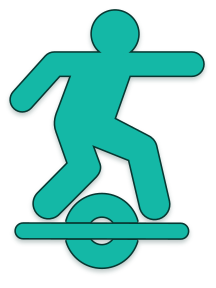
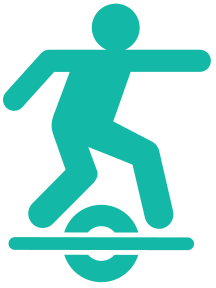
app: Remove strokes from app and loading artwork

Changed region(s): [[0.0, 0.0, 1.0, 1.0]]

diff --git a/frontend/src/app.html b/frontend/src/app.html
@@ -100,15 +100,7 @@
   <body data-sveltekit-preload-data="hover">
     <div id="app-loading" role="status" aria-label="Loading Float View">
       <!-- prettier-ignore -->
-      <span id="loading-symbol" aria-hidden="true"><svg xmlns="http://www.w3.org/2000/svg" viewBox="10 -3 83 110" width="72" height="96" aria-hidden="true" class="loading-symbol-light"><defs id="defs4"><filter id="rider-shadow" x="-20%" y="-20%" width="140%" height="145%" color-interpolation-filters="sRGB"><feGaussianBlur in="SourceAlpha" stdDeviation="0.9" result="blur" /><feOffset in="blur" dx="0" dy="1.1" result="offset" /><feFlood flood-color="#052e2b" flood-opacity="0.26" result="tint" /><feComposite in="tint" in2="offset" operator="in" result="drop" /><feMerge><feMergeNode in="drop" /><feMergeNode in="SourceGraphic" /></feMerge></filter></defs><g filter="url(#rider-shadow)"><g fill="#073832" stroke="#073832" stroke-width="2.2" stroke-linejoin="round"><path d="M 83.702,17.438 H 57.451 C 61.573,15.723 63.644,11.053 62.098,6.815 60.509,2.458 55.7,0.199 51.343,1.787 c -4.38,1.597 -6.607,6.422 -5.018,10.779 0.836,2.294 2.569,3.997 4.657,4.871 H 30.87 c -1.103,0 -2.154,0.468 -2.891,1.288 L 15.682,32.389 c -1.437,1.597 -1.307,4.056 0.289,5.493 0.743,0.669 1.673,0.999 2.601,0.999 1.064,0 2.124,-0.435 2.892,-1.288 L 32.602,25.217 h 5.484 l -4.939,13.265 c -0.911,2.277 -2.201,5.124 -0.835,8.729 l 4.333,12.314 -11.665,11.8 c -1.268,1.309 -1.816,3.256 -1.214,5.115 0.844,2.669 3.686,4.124 6.354,3.278 0.833,-0.253 1.56,-0.723 2.115,-1.31 L 46.469,64.08 c 0.833,-0.892 1.744,-2.486 1.236,-4.071 l -3.114,-8.466 15.511,6.205 4.349,18.618 c 0.041,0.112 0.06,0.234 0.102,0.348 0.845,2.669 3.694,4.146 6.363,3.301 2.503,-0.81 3.958,-3.369 3.414,-5.918 L 69.426,52.832 c -0.033,-0.091 -0.044,-0.189 -0.077,-0.28 -0.476,-1.445 -1.512,-2.529 -2.794,-3.089 L 53.337,42.577 59.449,25.213 H 83.7 c 2.148,0 3.89,-1.741 3.89,-3.89 0,-2.149 -1.739,-3.885 -3.888,-3.885 z" /><g>
-    <path d="m 44.449,81.525 c 1.116,-1.352 2.805,-2.215 4.695,-2.215 1.897,0 3.591,0.869 4.707,2.231 l 8.311,0.014 c -1.657,-5.624 -6.856,-9.732 -13.017,-9.732 -6.146,0 -11.335,4.086 -13.006,9.688 z" />
-    <path d="m 53.745,89.366 c -1.115,1.291 -2.761,2.111 -4.601,2.111 -1.848,0 -3.5,-0.827 -4.616,-2.127 l -8.373,-0.014 c 1.69,5.572 6.864,9.629 12.989,9.629 6.107,0 11.272,-4.035 12.975,-9.584 z" />
-  </g><path d="m 79.442,87.733 c -10e-4,0 -0.003,0 -0.004,0 L 18.843,87.63 c -1.235,-0.002 -2.234,-1.005 -2.232,-2.24 0.002,-1.234 1.003,-2.232 2.236,-2.232 10e-4,0 0.003,0 0.004,0 l 60.595,0.104 c 1.235,0.002 2.234,1.005 2.232,2.24 -0.002,1.233 -1.003,2.231 -2.236,2.231 z" /></g>
-<g id="g4" style="fill:#14b8a6;fill-opacity:1"><path stroke="#14b8a6" fill="#ffffff" d="M 83.702,17.438 H 57.451 C 61.573,15.723 63.644,11.053 62.098,6.815 60.509,2.458 55.7,0.199 51.343,1.787 c -4.38,1.597 -6.607,6.422 -5.018,10.779 0.836,2.294 2.569,3.997 4.657,4.871 H 30.87 c -1.103,0 -2.154,0.468 -2.891,1.288 L 15.682,32.389 c -1.437,1.597 -1.307,4.056 0.289,5.493 0.743,0.669 1.673,0.999 2.601,0.999 1.064,0 2.124,-0.435 2.892,-1.288 L 32.602,25.217 h 5.484 l -4.939,13.265 c -0.911,2.277 -2.201,5.124 -0.835,8.729 l 4.333,12.314 -11.665,11.8 c -1.268,1.309 -1.816,3.256 -1.214,5.115 0.844,2.669 3.686,4.124 6.354,3.278 0.833,-0.253 1.56,-0.723 2.115,-1.31 L 46.469,64.08 c 0.833,-0.892 1.744,-2.486 1.236,-4.071 l -3.114,-8.466 15.511,6.205 4.349,18.618 c 0.041,0.112 0.06,0.234 0.102,0.348 0.845,2.669 3.694,4.146 6.363,3.301 2.503,-0.81 3.958,-3.369 3.414,-5.918 L 69.426,52.832 c -0.033,-0.091 -0.044,-0.189 -0.077,-0.28 -0.476,-1.445 -1.512,-2.529 -2.794,-3.089 L 53.337,42.577 59.449,25.213 H 83.7 c 2.148,0 3.89,-1.741 3.89,-3.89 0,-2.149 -1.739,-3.885 -3.888,-3.885 z" id="path1" style="fill:#14b8a6;fill-opacity:1" /><g stroke="#14b8a6" fill="#ffffff" id="g3" style="fill:#14b8a6;fill-opacity:1">
-    <path d="m 44.449,81.525 c 1.116,-1.352 2.805,-2.215 4.695,-2.215 1.897,0 3.591,0.869 4.707,2.231 l 8.311,0.014 c -1.657,-5.624 -6.856,-9.732 -13.017,-9.732 -6.146,0 -11.335,4.086 -13.006,9.688 z" id="path2" style="fill:#14b8a6;fill-opacity:1" />
-    <path d="m 53.745,89.366 c -1.115,1.291 -2.761,2.111 -4.601,2.111 -1.848,0 -3.5,-0.827 -4.616,-2.127 l -8.373,-0.014 c 1.69,5.572 6.864,9.629 12.989,9.629 6.107,0 11.272,-4.035 12.975,-9.584 z" id="path3" style="fill:#14b8a6;fill-opacity:1" />
-  </g><path stroke="#14b8a6" fill="#ffffff" d="m 79.442,87.733 c -10e-4,0 -0.003,0 -0.004,0 L 18.843,87.63 c -1.235,-0.002 -2.234,-1.005 -2.232,-2.24 0.002,-1.234 1.003,-2.232 2.236,-2.232 10e-4,0 0.003,0 0.004,0 l 60.595,0.104 c 1.235,0.002 2.234,1.005 2.232,2.24 -0.002,1.233 -1.003,2.231 -2.236,2.231 z" id="path4" style="fill:#14b8a6;fill-opacity:1" /></g>
-</g></svg><svg class="loading-symbol-dark" xmlns="http://www.w3.org/2000/svg" viewBox="14 0 75 101" width="72" height="96" fill="currentColor" aria-hidden="true"><path d="M 83.702,17.438 H 57.451 C 61.573,15.723 63.644,11.053 62.098,6.815 60.509,2.458 55.7,0.199 51.343,1.787 c -4.38,1.597 -6.607,6.422 -5.018,10.779 0.836,2.294 2.569,3.997 4.657,4.871 H 30.87 c -1.103,0 -2.154,0.468 -2.891,1.288 L 15.682,32.389 c -1.437,1.597 -1.307,4.056 0.289,5.493 0.743,0.669 1.673,0.999 2.601,0.999 1.064,0 2.124,-0.435 2.892,-1.288 L 32.602,25.217 h 5.484 l -4.939,13.265 c -0.911,2.277 -2.201,5.124 -0.835,8.729 l 4.333,12.314 -11.665,11.8 c -1.268,1.309 -1.816,3.256 -1.214,5.115 0.844,2.669 3.686,4.124 6.354,3.278 0.833,-0.253 1.56,-0.723 2.115,-1.31 L 46.469,64.08 c 0.833,-0.892 1.744,-2.486 1.236,-4.071 l -3.114,-8.466 15.511,6.205 4.349,18.618 c 0.041,0.112 0.06,0.234 0.102,0.348 0.845,2.669 3.694,4.146 6.363,3.301 2.503,-0.81 3.958,-3.369 3.414,-5.918 L 69.426,52.832 c -0.033,-0.091 -0.044,-0.189 -0.077,-0.28 -0.476,-1.445 -1.512,-2.529 -2.794,-3.089 L 53.337,42.577 59.449,25.213 H 83.7 c 2.148,0 3.89,-1.741 3.89,-3.89 0,-2.149 -1.739,-3.885 -3.888,-3.885 z"/><path d="m 44.449,81.525 c 1.116,-1.352 2.805,-2.215 4.695,-2.215 1.897,0 3.591,0.869 4.707,2.231 l 8.311,0.014 c -1.657,-5.624 -6.856,-9.732 -13.017,-9.732 -6.146,0 -11.335,4.086 -13.006,9.688 z"/><path d="m 53.745,89.366 c -1.115,1.291 -2.761,2.111 -4.601,2.111 -1.848,0 -3.5,-0.827 -4.616,-2.127 l -8.373,-0.014 c 1.69,5.572 6.864,9.629 12.989,9.629 6.107,0 11.272,-4.035 12.975,-9.584 z"/><path d="m 79.442,87.733 c -10e-4,0 -0.003,0 -0.004,0 L 18.843,87.63 c -1.235,-0.002 -2.234,-1.005 -2.232,-2.24 0.002,-1.234 1.003,-2.232 2.236,-2.232 10e-4,0 0.003,0 0.004,0 l 60.595,0.104 c 1.235,0.002 2.234,1.005 2.232,2.24 -0.002,1.233 -1.003,2.231 -2.236,2.231 z"/></svg></span>
+      <span id="loading-symbol" aria-hidden="true"><svg class="loading-symbol-light" xmlns="http://www.w3.org/2000/svg" viewBox="14 0 75 101" width="72" height="96" fill="#14b8a6" aria-hidden="true"><path d="M 83.702,17.438 H 57.451 C 61.573,15.723 63.644,11.053 62.098,6.815 60.509,2.458 55.7,0.199 51.343,1.787 c -4.38,1.597 -6.607,6.422 -5.018,10.779 0.836,2.294 2.569,3.997 4.657,4.871 H 30.87 c -1.103,0 -2.154,0.468 -2.891,1.288 L 15.682,32.389 c -1.437,1.597 -1.307,4.056 0.289,5.493 0.743,0.669 1.673,0.999 2.601,0.999 1.064,0 2.124,-0.435 2.892,-1.288 L 32.602,25.217 h 5.484 l -4.939,13.265 c -0.911,2.277 -2.201,5.124 -0.835,8.729 l 4.333,12.314 -11.665,11.8 c -1.268,1.309 -1.816,3.256 -1.214,5.115 0.844,2.669 3.686,4.124 6.354,3.278 0.833,-0.253 1.56,-0.723 2.115,-1.31 L 46.469,64.08 c 0.833,-0.892 1.744,-2.486 1.236,-4.071 l -3.114,-8.466 15.511,6.205 4.349,18.618 c 0.041,0.112 0.06,0.234 0.102,0.348 0.845,2.669 3.694,4.146 6.363,3.301 2.503,-0.81 3.958,-3.369 3.414,-5.918 L 69.426,52.832 c -0.033,-0.091 -0.044,-0.189 -0.077,-0.28 -0.476,-1.445 -1.512,-2.529 -2.794,-3.089 L 53.337,42.577 59.449,25.213 H 83.7 c 2.148,0 3.89,-1.741 3.89,-3.89 0,-2.149 -1.739,-3.885 -3.888,-3.885 z"/><path d="m 44.449,81.525 c 1.116,-1.352 2.805,-2.215 4.695,-2.215 1.897,0 3.591,0.869 4.707,2.231 l 8.311,0.014 c -1.657,-5.624 -6.856,-9.732 -13.017,-9.732 -6.146,0 -11.335,4.086 -13.006,9.688 z"/><path d="m 53.745,89.366 c -1.115,1.291 -2.761,2.111 -4.601,2.111 -1.848,0 -3.5,-0.827 -4.616,-2.127 l -8.373,-0.014 c 1.69,5.572 6.864,9.629 12.989,9.629 6.107,0 11.272,-4.035 12.975,-9.584 z"/><path d="m 79.442,87.733 c -10e-4,0 -0.003,0 -0.004,0 L 18.843,87.63 c -1.235,-0.002 -2.234,-1.005 -2.232,-2.24 0.002,-1.234 1.003,-2.232 2.236,-2.232 10e-4,0 0.003,0 0.004,0 l 60.595,0.104 c 1.235,0.002 2.234,1.005 2.232,2.24 -0.002,1.233 -1.003,2.231 -2.236,2.231 z"/></svg><svg class="loading-symbol-dark" xmlns="http://www.w3.org/2000/svg" viewBox="14 0 75 101" width="72" height="96" fill="currentColor" aria-hidden="true"><path d="M 83.702,17.438 H 57.451 C 61.573,15.723 63.644,11.053 62.098,6.815 60.509,2.458 55.7,0.199 51.343,1.787 c -4.38,1.597 -6.607,6.422 -5.018,10.779 0.836,2.294 2.569,3.997 4.657,4.871 H 30.87 c -1.103,0 -2.154,0.468 -2.891,1.288 L 15.682,32.389 c -1.437,1.597 -1.307,4.056 0.289,5.493 0.743,0.669 1.673,0.999 2.601,0.999 1.064,0 2.124,-0.435 2.892,-1.288 L 32.602,25.217 h 5.484 l -4.939,13.265 c -0.911,2.277 -2.201,5.124 -0.835,8.729 l 4.333,12.314 -11.665,11.8 c -1.268,1.309 -1.816,3.256 -1.214,5.115 0.844,2.669 3.686,4.124 6.354,3.278 0.833,-0.253 1.56,-0.723 2.115,-1.31 L 46.469,64.08 c 0.833,-0.892 1.744,-2.486 1.236,-4.071 l -3.114,-8.466 15.511,6.205 4.349,18.618 c 0.041,0.112 0.06,0.234 0.102,0.348 0.845,2.669 3.694,4.146 6.363,3.301 2.503,-0.81 3.958,-3.369 3.414,-5.918 L 69.426,52.832 c -0.033,-0.091 -0.044,-0.189 -0.077,-0.28 -0.476,-1.445 -1.512,-2.529 -2.794,-3.089 L 53.337,42.577 59.449,25.213 H 83.7 c 2.148,0 3.89,-1.741 3.89,-3.89 0,-2.149 -1.739,-3.885 -3.888,-3.885 z"/><path d="m 44.449,81.525 c 1.116,-1.352 2.805,-2.215 4.695,-2.215 1.897,0 3.591,0.869 4.707,2.231 l 8.311,0.014 c -1.657,-5.624 -6.856,-9.732 -13.017,-9.732 -6.146,0 -11.335,4.086 -13.006,9.688 z"/><path d="m 53.745,89.366 c -1.115,1.291 -2.761,2.111 -4.601,2.111 -1.848,0 -3.5,-0.827 -4.616,-2.127 l -8.373,-0.014 c 1.69,5.572 6.864,9.629 12.989,9.629 6.107,0 11.272,-4.035 12.975,-9.584 z"/><path d="m 79.442,87.733 c -10e-4,0 -0.003,0 -0.004,0 L 18.843,87.63 c -1.235,-0.002 -2.234,-1.005 -2.232,-2.24 0.002,-1.234 1.003,-2.232 2.236,-2.232 10e-4,0 0.003,0 0.004,0 l 60.595,0.104 c 1.235,0.002 2.234,1.005 2.232,2.24 -0.002,1.233 -1.003,2.231 -2.236,2.231 z"/></svg></span>
       <p>Loading…</p>
     </div>
     <div style="display: contents">%sveltekit.body%</div>

diff --git a/tools/icon/generate-loading-symbol.py b/tools/icon/generate-loading-symbol.py
@@ -31,27 +31,12 @@ with tempfile.TemporaryDirectory(prefix='float-view-symbol-') as directory:
         'magick', '-background', 'none', '-density', '288', str(source_path),
         '-resize', '216x288!', '-define', 'png:exclude-chunk=all', str(output_path),
     ], check=True)
-    # Keep the existing template symbol for dark appearance. Light appearance
-    # uses the exact icon treatment, rasterized with transparent shadow pixels.
-    subprocess.run([
-        'python3', str(root / 'tools/icon/generate-light-artwork.py'), directory,
-    ], check=True)
-    artwork = ET.parse(Path(directory) / 'icon-light-mark.svg').getroot()
-    namespace = '{http://www.w3.org/2000/svg}'
-    ET.register_namespace('', namespace[1:-1])
-    light = ET.Element(namespace + 'svg')
-    light.extend(child for child in artwork if child.tag in (namespace + 'defs', namespace + 'g'))
-    for group in light.iter(namespace + 'g'):
-        group.attrib.pop('transform', None)
-    # Include space for the outline and shadow instead of clipping at the old
-    # tightly cropped silhouette bounds. Keep the dark viewport unchanged.
-    light.set('viewBox', '10 -3 83 110')
-    light.set('width', '72')
-    light.set('height', '96')
-    light.set('aria-hidden', 'true')
-    light.set('class', 'loading-symbol-light')
+    # Use the same stroke-free geometry and viewport in both appearances.
+    light_svg = svg.replace('currentColor', '#14b8a6').replace(
+        '<svg ', '<svg class="loading-symbol-light" ', 1,
+    )
     light_path = Path(directory) / 'loading-light.svg'
-    ET.ElementTree(light).write(light_path, encoding='unicode')
+    light_path.write_text(light_svg)
     light_png = Path(directory) / 'loading-light.png'
     subprocess.run([
         'rsvg-convert', '-w', '216', '-h', '288', str(light_path),
@@ -72,7 +57,7 @@ with tempfile.TemporaryDirectory(prefix='float-view-symbol-') as directory:
     # The inline artwork paints before frontend scripts or asset requests.
     symbol = (
         '<span id="loading-symbol" aria-hidden="true">'
-        + ET.tostring(light, encoding='unicode') + dark_svg + '</span>'
+        + light_svg + dark_svg + '</span>'
     )
     html, count = re.subn(
         r'<span id="loading-symbol"[^>]*>[\s\S]*?</span>',

diff --git a/tools/icon/README.md b/tools/icon/README.md
@@ -20,9 +20,9 @@ written by `sips`. The output includes the iOS default AppIcon PNG, macOS ICNS, 
 Android density/adaptive-icon WebP assets used by the native targets.
 
 The centered loading screen uses the rider without the icon background. Native
-and early HTML loading screens use the same Fresh teal (`#14b8a6`) artwork,
-outline and shadow derived by `generate-light-artwork.py`. The dark loading screen retains its
-bright teal (`#2dd4bf`) silhouette. Light loading PNGs retain their original
+and early HTML loading screens use the same stroke-free silhouette as the app
+icon, without an outline or shadow. Light loading screens use Fresh teal
+(`#14b8a6`); dark loading screens use bright teal (`#2dd4bf`). Light loading PNGs retain their original
 colours rather than being tinted as template images. Regenerate the early HTML,
 iOS/macOS PNGs, Android light PNG and dark vector, and the frontend map's
 separate SVG silhouette with Python 3, ImageMagick and `rsvg-convert`:
@@ -38,7 +38,8 @@ including the `sips` fallback. This dark ICNS also gives unbundled SwiftPM launc
 an icon. iOS and Android use their existing platform shapes.
 
 All platforms default to the original bright teal (`#2dd4bf`) rider on charcoal
-(`#121418`), regardless of system light/dark appearance.
+(`#121418`), regardless of system light/dark appearance. The app icon uses
+filled paths without a stroke so all platform silhouettes have the same weight.
 
 `FloatView.icon/` provides the layered macOS 26 icon. Its rider SVG is generated
 from `icon.svg`, and `icon.json` applies the dark palette as the default.
@@ -54,8 +55,3 @@ switching are used.
 iOS uses one default AppIcon without a separate dark variant. Regenerate only
 this asset with `tools/icon/generate.sh --ios-only`. System Home Screen tinting
 remains under the user's control.
-
-`generate-light-artwork.py` remains in use for light loading screens. It derives
-a Fresh teal (`#14b8a6`) rider with a thin ink teal (`#073832`) outline and a
-small dark teal (`#052e2b`) shadow. Dark loading, map and Android monochrome
-symbols retain their existing silhouettes.
